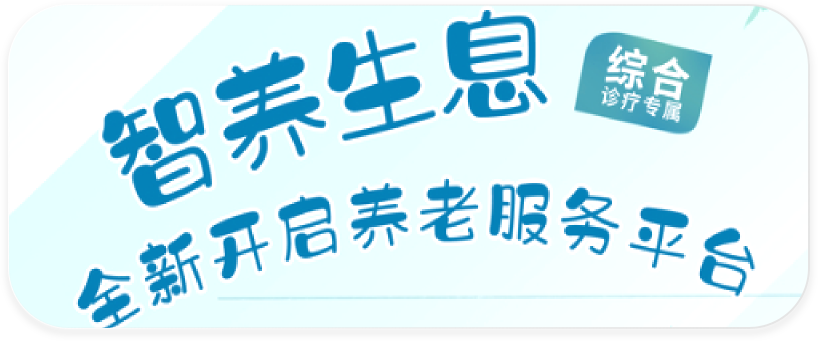
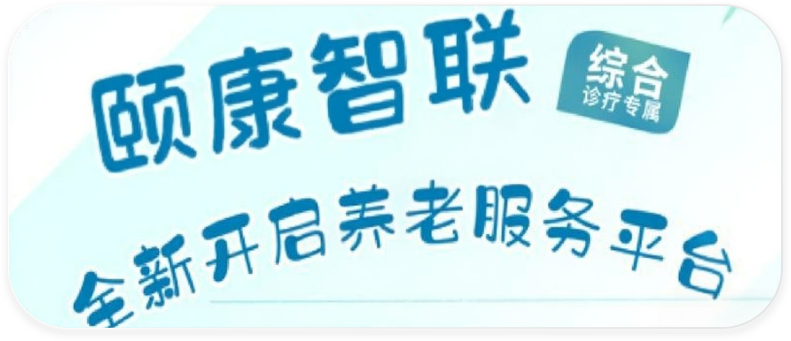
项目改两个名字

Changed region(s): [[0.091, 0.5279, 0.9406, 0.9677], [0.091, 0.0293, 0.6675, 0.6158], [0.6979, 0.088, 0.8799, 0.4106]]

diff --git a/src/pages/Login.vue b/src/pages/Login.vue
@@ -50,7 +50,7 @@ const toRegister = () => {
             <div class="hero">
                 <h1>您好 用户<br>
                     <span class="heroTxt">欢迎来到 </span>
-                    <span class="gradient-text">智养生息</span>
+                    <span class="gradient-text">颐康智联</span>
                 </h1>
                 <p>如果您没有账号<br>可以<a @click="toRegister">点击这里</a>进行注册.</p>
             </div>

diff --git a/src/components/Calendar.vue b/src/components/Calendar.vue
@@ -30,7 +30,7 @@ const calendarWeeks = computed(() => {
             } else {
                 const dateStr = `${year}-${month + 1}-${currentDate}`;
                 days.push({
-                    date: currentDate,
+                    date: currentDate-1,
                     isCurrentMonth: true,
                     isToday: isToday(year, month, currentDate),
                     hasEvent: events.value.includes(dateStr)
